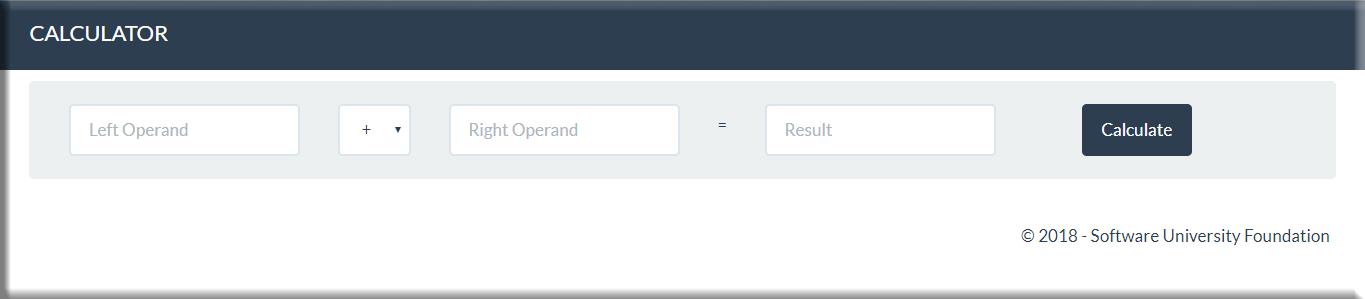
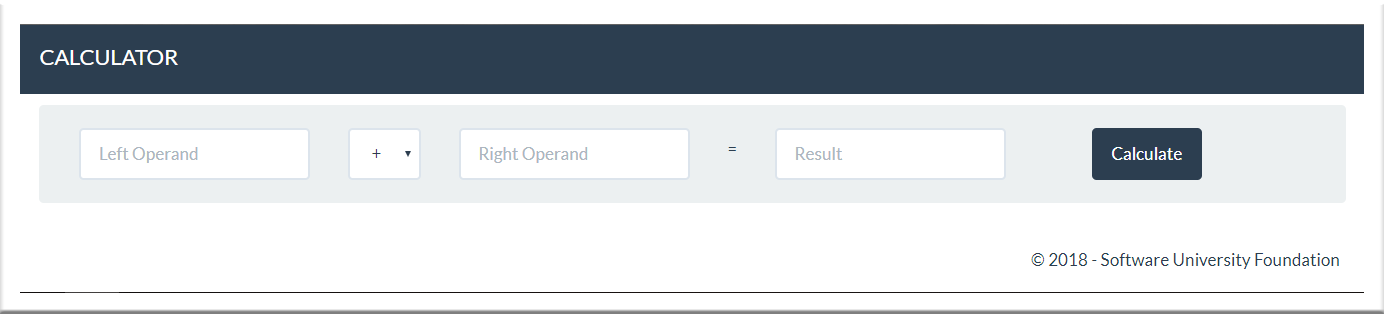
Calculator & Converter

diff --git a/TF11. JAVASCRIPT EXPRESSJS OVERVIEW - EX (CALCULATOR)/public/stylesheets/style.css b/TF11. JAVASCRIPT EXPRESSJS OVERVIEW - EX (CALCULATOR)/public/stylesheets/style.css
@@ -1594,9 +1594,11 @@ h2,
 .h2,
 h3,
 .h3 {
-    margin-top: 0; /*CHANGE*/
+    margin-top: 7px; /*CHANGE*/
     /*margin-top: 21px;*/
-    margin-bottom: 10.5px;
+    margin-bottom: 0;
+    color: white;
+    text-align: center;
 }
 
 h1 small,
@@ -1622,6 +1624,8 @@ h6,
 .h6 {
     margin-top: 10.5px;
     margin-bottom: 10.5px;
+    margin-left: 10px;
+
 }
 
 h4 small,
@@ -2032,6 +2036,13 @@ pre code {
     padding-right: 15px;
 }
 
+.container-small {
+    margin-right: auto;
+    margin-left: auto;
+    padding-left: 15px;
+    padding-right: 15px;
+}
+
 @media (min-width: 768px) {
     .container {
         width: 750px;
@@ -2047,6 +2058,10 @@ pre code {
 @media (min-width: 1200px) {
     .container {
         width: 1170px;
+    }
+
+    .container-small {
+        width: 900px;
     }
 }
 
@@ -2081,7 +2096,6 @@ h3.info{ /*CHANGE - All new*/
 }
 .col-sm-2{ /*CHANGE - All new*/
     color: white;
-    text-align: left;
     font-size: 30px;
 }
 .col-xs-1, .col-xs-2, .col-xs-3, .col-xs-4, .col-xs-5, .col-xs-6, .col-xs-7, .col-xs-8, .col-xs-9, .col-xs-10, .col-xs-11, .col-xs-12 {
@@ -6124,12 +6138,15 @@ a.badge:focus {
 .jumbotron {
     padding-top: 30px;
     padding-bottom: 30px;
-    margin-bottom: 24px; /*CHANGE*/
-    margin-left: 5px; /*CHANGE*/
-    margin-right: 5px; /*CHANGE*/
+    margin-bottom: 20px; /*CHANGE*/
+    margin-left: auto; /*CHANGE*/
+    margin-right: auto; /*CHANGE*/
     /*margin-bottom: 30px;*/
     color: inherit;
     background-color: #ecf0f1;
+    border-radius: 10px;
+    border: solid rgba(0, 0, 0, 0.8);
+    /*width: 750px;*/
 }
 
 .jumbotron h1,
@@ -6151,7 +6168,6 @@ a.badge:focus {
 
 .container .jumbotron,
 .container-fluid .jumbotron {
-    border-radius: 6px;
     padding-left: 15px;
     padding-right: 15px;
 }
@@ -6161,7 +6177,7 @@ a.badge:focus {
 }
 
 @media screen and (min-width: 768px) {
-    .jumbotron {
+    .jumbotron .jumbotron-2{
         padding-top: 10px; /*CHANGE*/
         padding-bottom: 10px; /*CHANGE*/
         /*padding-top: 48px;*/
@@ -6169,7 +6185,7 @@ a.badge:focus {
     }
 
     .container .jumbotron,
-    .container-fluid .jumbotron {
+    .container-fluid .jumbotron .jumbotron-2{
         padding-left: 10px; /*CHANGE*/
         padding-right: 10px; /*CHANGE*/
         /*padding-left: 60px;*/
@@ -7164,7 +7180,7 @@ button.list-group-item-danger.active:focus {
     min-height: 20px;
     padding: 19px;
     margin-bottom: 20px;
-    background-color: rgba(0,0,0,0.4); /*Change - Background color*/
+    background-color: rgba(0,0,0,0.1); /*Change - Background color*/
     /*background-color: #ecf0f1;*/
     border: 1px solid transparent;
     border-radius: 30px;
@@ -7173,8 +7189,8 @@ button.list-group-item-danger.active:focus {
 }
 
 .body-content .body-content{ /*CHANGE - New Border*/
-    background-color: rgba(0,0,0,0.6);
-    border-radius: 15px;
+    background-color: rgba(0,0,0,0.7);
+    border-radius: 10px;
 }
 
 .well blockquote {

diff --git a/TF11. JAVASCRIPT EXPRESSJS OVERVIEW - EX (CALCULATOR)/models/converter.js b/TF11. JAVASCRIPT EXPRESSJS OVERVIEW - EX (CALCULATOR)/models/converter.js
@@ -1,0 +1,72 @@
+function Converter(input, unit) {
+    this.input = input;
+    this.unit = unit;
+
+    this.converterResult = function () {
+        let result = 0;
+
+        switch (this.unit) {
+            case 'HEX':
+
+            function decimalToHexString(number) {
+                if (number < 0) {
+                    number = 0xFFFFFFFF + number + 1;
+                }
+                return number.toString(16).toUpperCase();
+            }
+
+                result = decimalToHexString(this.input);
+                break;
+            case 'BIN':
+
+            function decimalToBinString(number) {
+                let num = number;
+
+                if (num != Math.floor(num)) {
+                    return NaN;
+                } else if (num < 0) {
+                    return NaN
+                } else {
+                    let binary = parseInt(num, 10);
+                    return binary.toString(2);
+                }
+            }
+
+                result = decimalToBinString(this.input);
+                break;
+            case'inch':
+                result = this.input * 0.393700787;
+                break;
+            case'mile':
+                result = this.input * 0.621371192;
+                break;
+            case'yard':
+                result = this.input * 1093.6133;
+                break;
+            case'bar':
+                result = this.input * 0.0001;
+                break;
+            case'pascal':
+                result = this.input * 9.80665;
+                break;
+            case'kelvin':
+                result = this.input * 274.15;
+                break;
+            case'fahrenheit':
+                result = this.input * 33.8;
+                break;
+            case'rad':
+                result = this.input * 0.01745;
+                break;
+            case'gra':
+                result = this.input * 1.11111;
+                break;
+            case'bit':
+                result = this.input * 8000000;
+                break;
+        }
+        return result;
+    }
+}
+
+module.exports = Converter;

diff --git a/TF11. JAVASCRIPT EXPRESSJS OVERVIEW - EX (CALCULATOR)/controllers/calculator.js b/TF11. JAVASCRIPT EXPRESSJS OVERVIEW - EX (CALCULATOR)/controllers/calculator.js
@@ -1,0 +1,18 @@
+const Calculator = require('../models/calculator');
+module.exports = {
+    indexGet: (req, res) => {
+        res.render('home/indexCalculator');
+    },
+    indexPost: (req, res) => {
+        let calculatorBody = req.body;
+
+        let calculatorParams = calculatorBody['calculator'];
+
+        let calculator = new Calculator();
+        calculator.leftOperand = Number(calculatorParams.leftOperand);
+        calculator.operator = calculatorParams.operator;
+        calculator.rightOperand = Number(calculatorParams.rightOperand);
+        let result = calculator.calculateResult();
+        res.render('home/indexCalculator', {'calculator': calculator, 'result': result});
+    },
+};

diff --git a/TF11. JAVASCRIPT EXPRESSJS OVERVIEW - EX (CALCULATOR)/controllers/converter.js b/TF11. JAVASCRIPT EXPRESSJS OVERVIEW - EX (CALCULATOR)/controllers/converter.js
@@ -1,0 +1,17 @@
+const Converter = require('../models/converter');
+module.exports = {
+    indexGet: (req, res) => {
+        res.render('home/indexConverter');
+    },
+    indexPost: (req, res) => {
+        let converterBody = req.body;
+
+        let converterParams = converterBody['converter'];
+
+        let converter = new Converter();
+        converter.input = Number(converterParams.input);
+        converter.unit = converterParams.unit;
+        let result = converter.converterResult();
+        res.render('home/indexConverter', {'converter': converter, 'result': result});
+    },
+};

diff --git a/TF11. JAVASCRIPT EXPRESSJS OVERVIEW - EX (CALCULATOR)/config/routes.js b/TF11. JAVASCRIPT EXPRESSJS OVERVIEW - EX (CALCULATOR)/config/routes.js
@@ -1,7 +1,10 @@
-const homeController = require('../controllers/home');
+const homeCalculator = require('../controllers/calculator');
+const homeConverter = require('../controllers/converter');
 
 module.exports = (app) => {
-    app.get('/', homeController.indexGet);
-    app.post('/', homeController.indexPost)
-};
+    app.get('/', homeCalculator.indexGet);
+    app.post('/', homeCalculator.indexPost);
 
+    app.get('/home/indexConverter', homeConverter.indexGet);
+    app.post('/home/indexConverter', homeConverter.indexPost);
+};
